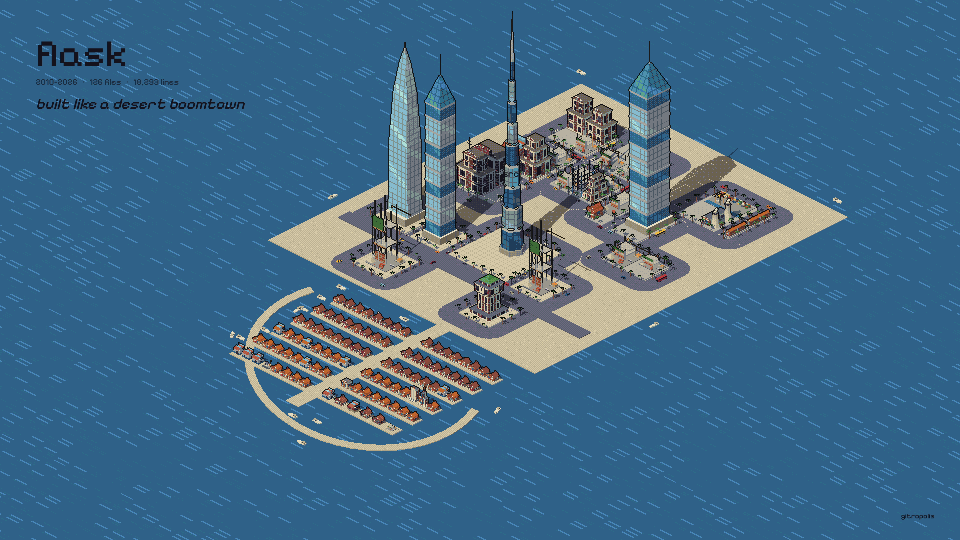
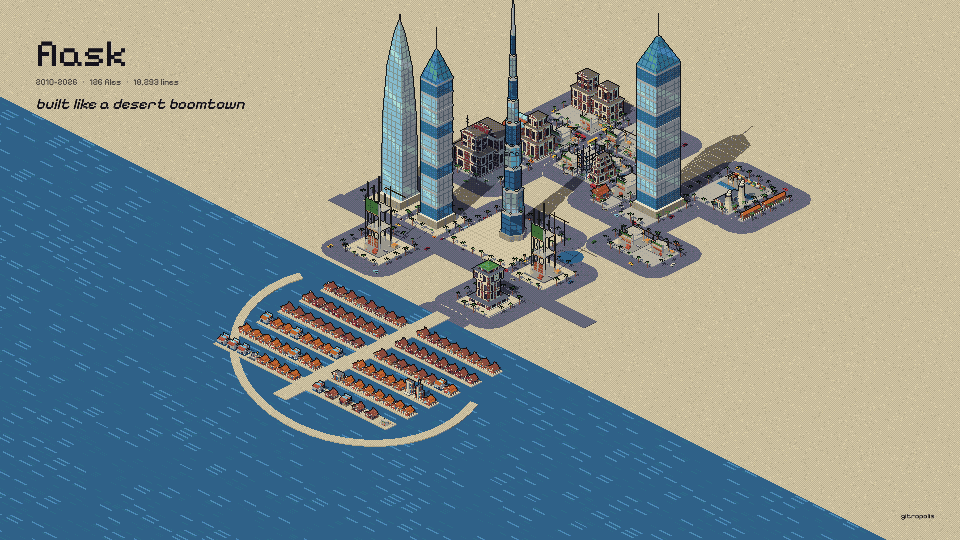
Desert: sand to the horizon, the sea only on the coast
The boomtown stood in open water. Now the ground is sand everywhere, the sea
covers only the coast side, the palm and its crescent are sandbars in it, and
the fountain lake sits beside the needle's plaza.

diff --git a/web/layouts.js b/web/layouts.js
@@ -497,7 +497,7 @@ const PLANNERS = {
     });
     blocks.push({ poly: rectPoly(-HP / 2, -RD - 0.4 - HP, HP / 2, -RD - 0.4), type: 'plaza' });
     lots.push({ i: ctx.hub, x: 0, z: -RD - 0.4 - HP * 0.62, w: 1.6, d: 1.6, rot: 0 });
-    water.push(circlePoly(HP * 0.22, -RD - 0.4 - HP * 0.22, 0.75, 20)); // the fountain lake at its foot
+    water.push(circlePoly(HP / 2 + 1.5, -RD - 0.4 - HP * 0.75, 0.7, 20)); // the fountain lake beside it
     roads.push({ a: [-L / 2 - 2, 0], b: [L / 2 + 2, 0], w: RD * 1.6 });
     // inland: districts on a grid, with plots of open sand still waiting for someone to build on them
     const inland = ds.map(d => ({ d, items: d.items.filter(it => it.i !== ctx.hub && !towers.has(it.i) && !villaSet.has(it.i)) })).filter(g => g.items.length);
@@ -525,13 +525,15 @@ const PLANNERS = {
     const F = clamp(Math.round(Math.sqrt(villas.length) * 1.2), villas.length ? 4 : 0, 18);
     const perFrond = Math.ceil(villas.length / Math.max(1, F)), fl = clamp(perFrond * 0.75, 2.5, 9);
     const trunkX = L * 0.22, trunkL = Math.ceil(F / 2) * 1.6 + 2.5;
-    const land = [rectPoly(-W / 2 - 3, z0 - D - 3, W / 2 + 3, zSea)];
+    // sand to the horizon; the sea only on the coast side, with the palm and its crescent as sandbars
+    const sand = poly => blocks.push({ poly, type: 'beach' });
+    water.push(rectPoly(-W / 2 - 60, zSea, W / 2 + 60, zSea + trunkL + fl + 40));
     if (F) {
-      land.push(rectPoly(trunkX - 0.5, zSea - 0.2, trunkX + 0.5, zSea + trunkL));
+      sand(rectPoly(trunkX - 0.5, zSea - 0.2, trunkX + 0.5, zSea + trunkL));
       for (let k = 0; k < F; k++) {
         const z = zSea + 2.2 + Math.floor(k / 2) * 1.6, dir = k % 2 ? 1 : -1;
         const xa = trunkX + dir * 0.5, xb = trunkX + dir * (0.5 + fl);
-        land.push(rectPoly(Math.min(xa, xb), z - 0.4, Math.max(xa, xb), z + 0.4));
+        sand(rectPoly(Math.min(xa, xb), z - 0.4, Math.max(xa, xb), z + 0.4));
         const mine = villas.slice(k * perFrond, (k + 1) * perFrond);
         mine.forEach((it, n) => {
           const t = (n + 0.5) / Math.max(1, mine.length);
@@ -542,11 +544,11 @@ const PLANNERS = {
       const cr = [], R0 = fl + 2.2, R1 = R0 + 0.6, czc = zSea + trunkL * 0.5;
       for (let k = 0; k <= 30; k++) { const a = -0.1 + Math.PI * 1.2 * k / 30; cr.push([trunkX + Math.cos(a + Math.PI * -0.1) * R1, czc + Math.sin(a) * R1 * 0.9]); }
       for (let k = 30; k >= 0; k--) { const a = -0.1 + Math.PI * 1.2 * k / 30; cr.push([trunkX + Math.cos(a + Math.PI * -0.1) * R0, czc + Math.sin(a) * R0 * 0.9]); }
-      land.push(cr);
+      sand(cr);
       void VA;
     }
     return {
-      lots, blocks, labels, water, roads, sand: true, ground: 'water', land,
+      lots, blocks, labels, water, roads, sand: true, ground: 'land',
       camera: { az: 45, el: 30, dist: 0.9 },
       height: (i, rel) => i === ctx.hub ? 16 : towers.has(i) ? Math.min(3 + 4 * Math.pow(rel, 0.4), 11) : villaSet.has(i) ? 0.45 : Math.min(0.5 + 0.7 * Math.pow(rel, 0.5), 2.4),
     };

diff --git a/web/studio.js b/web/studio.js
@@ -89,7 +89,7 @@ function buildTerrain(scene, layout, S, plateStep, shared, street) {
   if (layout.groundIsWater) add(slab([...layout.land, ...layout.shore], 0, landTop), S.land, 'grass-or-street');
   // lakes and rivers; on a city whose ground is the sea, they're pools sitting on the land
   if (layout.water.length) add(slab(layout.water, layout.groundIsWater ? landTop : 0, plateStep * 0.05), S.water, 'water');
-  const colors = { block: S.plate, park: S.park, plaza: S.plaza, lawn: S.lawn, yard: S.yard };
+  const colors = { block: S.plate, park: S.park, plaza: S.plaza, lawn: S.lawn, yard: S.yard, beach: S.sand };
   // terraces (a mountain city): rock cliffs up to each terrace, its surface laid on top
   const raised = layout.blocks.filter(b => b.h > 0);
   if (raised.length) add(slabEach(raised.map(b => [b.poly, landTop, b.h])), S.cliff || S.plate);
@@ -97,7 +97,7 @@ function buildTerrain(scene, layout, S, plateStep, shared, street) {
     const of = layout.blocks.filter(b => b.type === type);
     const depth = type === 'park' ? plateStep * 1.4 : plateStep;
     const geo = of.some(b => b.h > 0) ? slabEach(of.map(b => [b.poly, landTop + (b.h || 0), depth])) : slab(of.map(b => b.poly), landTop, depth);
-    add(geo, colors[type], { block: 'paving', plaza: 'paving', park: 'grass', lawn: 'grass', yard: 'paving' }[type]);
+    add(geo, colors[type], { block: 'paving', plaza: 'paving', park: 'grass', lawn: 'grass', yard: 'paving', beach: 'grass' }[type]);
   }
   if (S.flat) {
     // plan: hairline outline around every block
